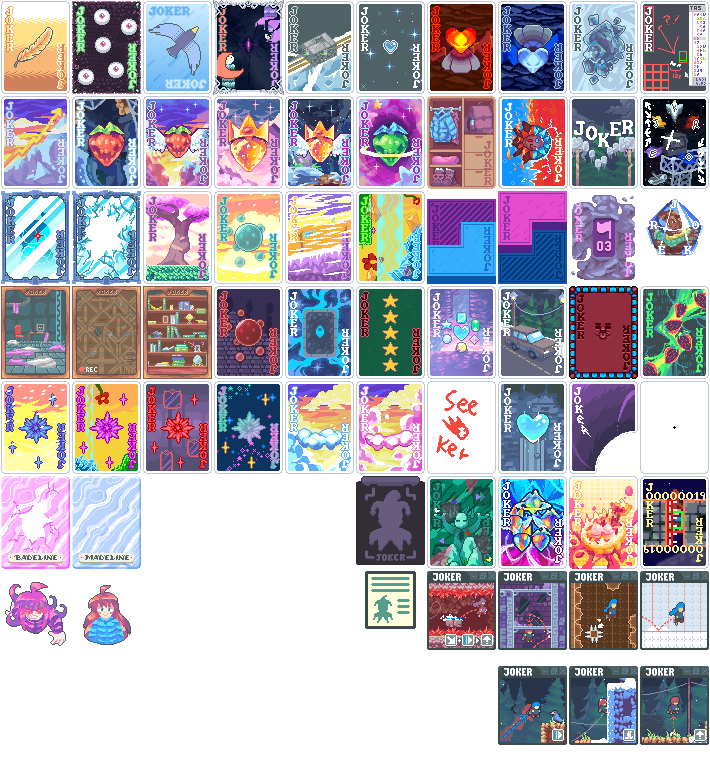
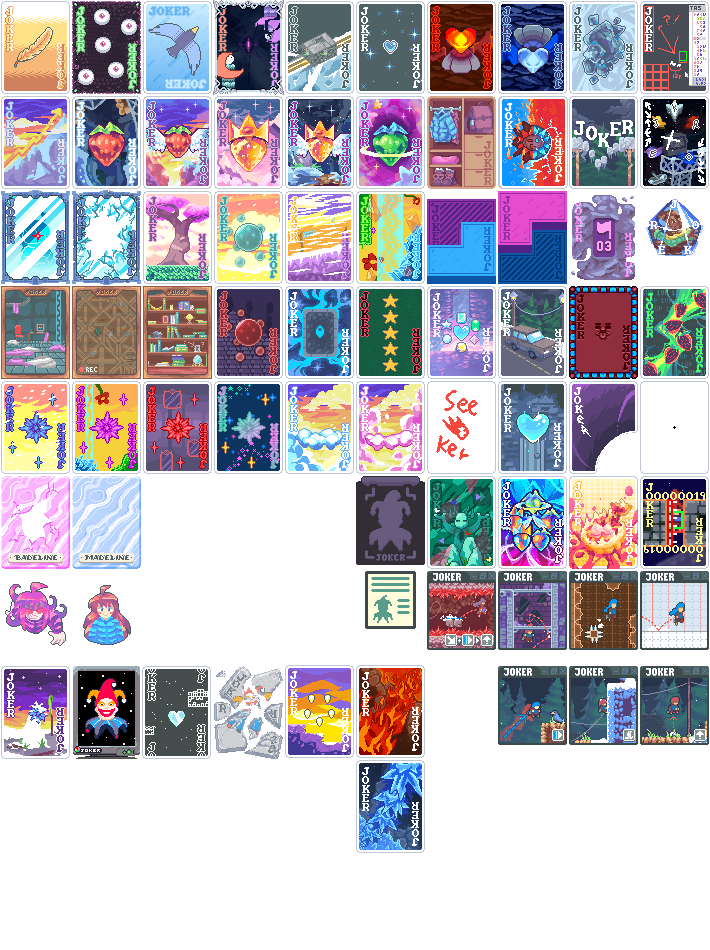
add new jokers and stuff

diff --git a/README.md b/README.md
@@ -14,7 +14,7 @@ Below is a list of everything this mod adds
 |B-Side Deck| All blinds are boss blinds. Start at Ante 0 |
 |Heartside Deck| Only modded Jokers may appear (and maybe jimbo) |
 
-# Jokers
+# Jokers (may be outdated or wrong)
 ## Have art
 
 | Name | Rarity | Ability|
@@ -26,11 +26,12 @@ Below is a list of everything this mod adds
 |Core Switch| Common | Swap hands and discards at the start of round, +1 discard after swap|
 |Waterfall| Common | If played hand contains a Flush, convert a random card held in hand to the same suit |
 |Pointless Machines| Common |  Bad signal? |
-|5-Star Hardlist| Common |+25 Mult; -5 Mult for every Joker or Buffoon Pack purchased|
+|5-Star Hardlist| Common |+20 Mult; -4 Mult for every Joker or Buffoon Pack purchased|
 |Switch Gate| Common |Gains +10 Chips if any of the following cards are scored: <3 random cards> (starts at +0 chips); Cards change every round |
 |Temple Rock| Common |Each Stone Card held in hand gives +50 Chips|
 |Cloud| Common | +30 chips for each hand played this round|
 |Brittle Cloud| Common |+150 chips on the first hand played this round|
+|Strawberry Seeds| Common | After scoring 8 [suit] cards, sell this card to create a random Strawberry |
 |Intro Car| Uncommon |Before each 5 or 8 is scored, swap current Chips and Mult|
 |Temple Eyes | Uncommon | Gives Hanged Man if Blind is selected with $4 or less|
 |Feather| Uncommon | Gains X0.04 for each card drawn, resets at end of round |
@@ -48,8 +49,9 @@ Below is a list of everything this mod adds
 |Event Horizon| Uncommon | Every 5th Planet card used acts as a Black Hole|
 |Green Booster| Uncommon | Adds an extra card to all Booster Packs |
 |1UP| Uncommon | Earn $2 at end of round, increases by $4 when a Strawberry is purchased |
-|Crystal Heart| Uncommon | If played hand is a single Ace of Hearts, apply a random Edition to a card held in hand|
 |Lapidary| Uncommon | Jokers with a unique rarity each give X1.5 Mult|
+|Fireball| Uncommon | If your score display catches fire during the round, next shop will have an extra Mega booster pack|
+|Iceball| Uncommon | If your score display didn't catch fire during the previous round, X3 Mult|
 |Kevin| Rare | Scoring face cards act as a copy of the rightmost played card|
 |Theo Crystal| Rare |Forces 1 card to always be selected; Adds +1 to all listed probabilities at round end (2 in 7 -> 3 in 7)|
 |Red Booster| Rare |Allows you to choose 1 extra card from all Booster Packs|
@@ -64,7 +66,7 @@ Below is a list of everything this mod adds
 |Strong Winds| Rare | X2.22 Mult; Card of the highest rank in scoring hand is destroyed|
 |Letting Go| Rare |When a card is destroyed, 1 in 2 chance to create a Death; Gains +4 Mult for each Death used (starts at 0)|
 |Strawberry Pie| Rare | Grants a large bonus based on current money; $30-$79: +140 Chips; $80-$174: +60 Mult; $175+: X8 Mult|
-|The Crowd| Rare | If played hand contains a Five of a Kind; X5 Mult, and create the played poker hand's Planet|
+|The Crowd| Rare | If played hand contains a Five of a Kind; X5 Mult |
 |Badeline| Legendary | Retrigger all Glass cards and all Mirrored cards|
 |Madeline| Legendary | Prevents reductions and resets of Joker values through their own abilities|
 
@@ -72,9 +74,6 @@ Below is a list of everything this mod adds
 
 | Name | Rarity | Ability|
 | ---  | ---    | ---|
-|Bumper| Common |If discards > hands, +16 Mult; if hands > discards, +60 Chips; if both are equal does nothing|
-|Freeze| Common |Cards held in hand gain +15 Chips until end of round|
-|Secret Shrine| Common |Gives Mult equal to triple the amount of 7s in full deck|
 |Seeker| Rare | If drawn card is not most owned Rank or most owned Suit, put it back in deck and draw again|
 |Granny| Legendary | After discarding cards, force draw 1 additional card for each card discarded|
 
